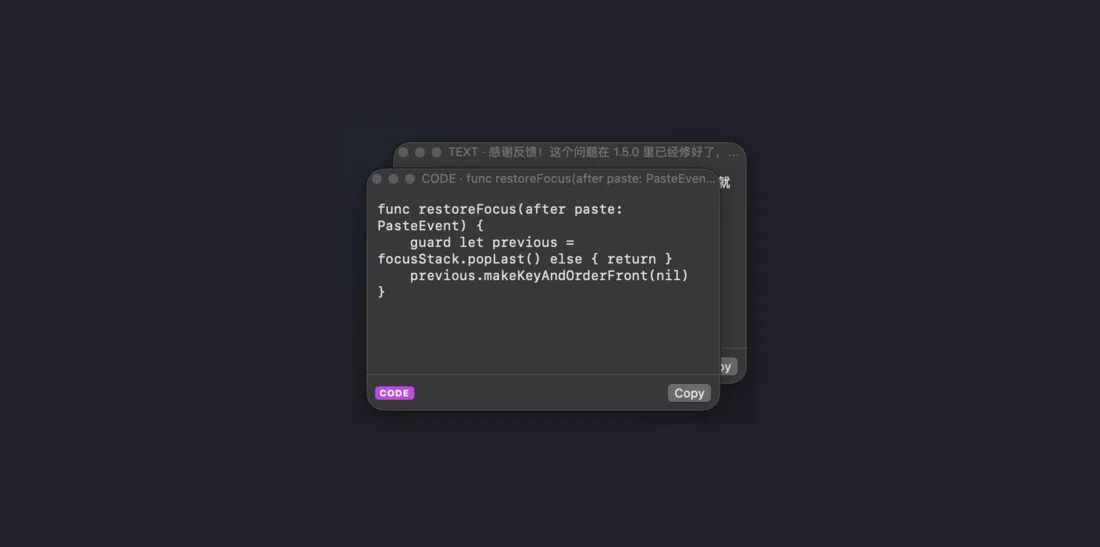
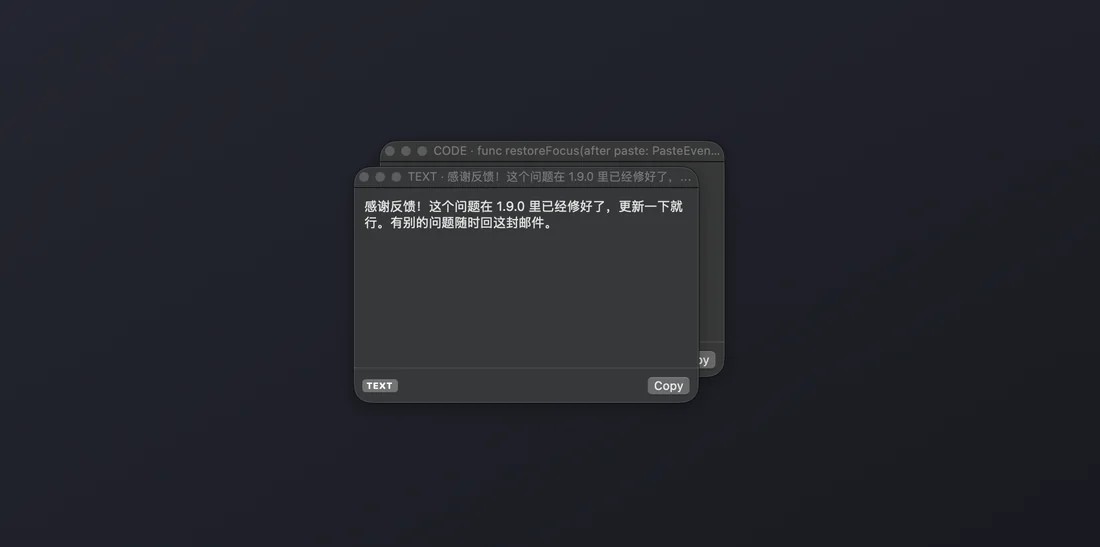
Site: feature screenshots re-shot on 1.9.0; canvas synced with the live page
Six feature shots retaken with the shipped 1.9.0 app and demo history
(footer now reads 1.9.0, demo text no longer mentions 1.5.0). Canvas web and
phone boards now embed the try-it section, carry the two extra feature cards,
the sibling-app row and the current CTA copy.

Changed region(s): [[0.3091, 0.2486, 0.68, 0.777]]

diff --git a/design/site/canvas/Main.dc.html b/design/site/canvas/Main.dc.html
@@ -25,6 +25,7 @@ a{color:#141414}a:hover{color:#55534d}
 <header style="max-width:1240px;margin:0 auto;padding:22px 40px;display:flex;align-items:center;justify-content:space-between;gap:24px">
 <a href="#top" style="display:flex;align-items:center;gap:10px;text-decoration:none;font:800 20px 'Bricolage Grotesque',sans-serif;letter-spacing:-.02em"><img src="/_blob/39be138c05033c1d39772588a3e15cde" alt="" style="width:30px;height:30px;border-radius:7px">ClipStack</a>
 <nav style="display:flex;align-items:center;gap:28px;font-size:15px;font-weight:500">
+<a href="#try" style="text-decoration:none">Try it</a>
 <a href="#what" style="text-decoration:none">What it is</a>
 <a href="#how" style="text-decoration:none">How to use</a>
 <a href="#features" style="text-decoration:none">Features</a>
@@ -41,7 +42,7 @@ a{color:#141414}a:hover{color:#55534d}
 <p class="muted" style="margin:28px 0 0;font-size:20px;max-width:30em">Your Mac's clipboard only remembers the last thing you copied. ClipStack remembers the rest — text, links, images and files. Press <span class="key" style="height:26px;min-width:auto;font-size:12px">⇧⌘V</span> in any app, pick one, press <span class="key" style="height:26px;min-width:26px;font-size:12px">↩</span>, paste.</p>
 <div style="display:flex;gap:14px;align-items:center;margin-top:36px">
 <a href="#dl" style="display:inline-flex;align-items:center;gap:10px;background:#141414;color:#fff;text-decoration:none;padding:16px 22px;border-radius:12px;font-weight:600;font-size:16px">Download for Mac</a>
-<a href="#how" style="font-weight:600;font-size:16px;text-decoration:none;border-bottom:2px solid #ffe45c;padding-bottom:2px">See how it works →</a>
+<a href="#try" style="font-weight:600;font-size:16px;text-decoration:none;border-bottom:2px solid #ffe45c;padding-bottom:2px">Try it right here →</a>
 </div>
 <p class="muted" style="margin:22px 0 0;font-size:14px">Free · Open source (MIT) · macOS 13+ · Apple silicon</p>
 </div>
@@ -52,6 +53,8 @@ a{color:#141414}a:hover{color:#55534d}
 <div style="position:absolute;left:58px;bottom:-22px;display:flex;align-items:center;gap:8px;background:#141414;color:#fff;padding:9px 13px;border-radius:12px;font-size:13px"><span class="key" style="height:24px;min-width:24px;font-size:11px">⇧</span><span class="key" style="height:24px;min-width:24px;font-size:11px">⌘</span><span class="key" style="height:24px;min-width:24px;font-size:11px">V</span><span style="margin-left:4px">Open ClipStack</span></div>
 </div>
 </section>
+
+<section id="try" style="border-top:1px solid #e4e2da;background:#fff;display:flex;justify-content:center"><dc-import name="Try" hint-size="1440px,980px"></dc-import></section>
 
 <section id="what" style="border-top:1px solid #e4e2da">
 <div style="max-width:1240px;margin:0 auto;padding:110px 40px">
@@ -139,15 +142,15 @@ a{color:#141414}a:hover{color:#55534d}
 <p class="lab" style="margin:0"><span class="key">⌘5</span>Beyond the basics</p>
 <h2 style="margin:28px 0 0;font:800 64px/1.02 'Bricolage Grotesque',sans-serif;letter-spacing:-.04em">Small moves that <span class="mk">add up.</span></h2>
 <div style="display:grid;grid-template-columns:repeat(2,minmax(0,1fr));gap:24px;margin-top:56px">
-<div class="card" style="padding:28px"><div style="display:flex;justify-content:space-between;align-items:center"><h3 style="margin:0;font:700 26px 'Bricolage Grotesque',sans-serif">Change it before you paste</h3><span class="key">⌘K</span></div><p class="muted" style="margin:10px 0 20px;font-size:15.5px">Case, trim, join lines, JSON, URL-encode, colour formats, text from a screenshot (on-device OCR).</p><img src="/_blob/85e757d2b52fc35c45a7b0fb8cccdf9d" alt="The ⌘K transform menu over a JSON entry" style="display:block;width:100%;border-radius:10px;border:1px solid #e4e2da"></div>
-<div class="card" style="padding:28px"><div style="display:flex;justify-content:space-between;align-items:center"><h3 style="margin:0;font:700 26px 'Bricolage Grotesque',sans-serif">Every entry is tagged</h3><span class="key">⇥</span></div><p class="muted" style="margin:10px 0 20px;font-size:15.5px">URL, EMAIL, CODE, COLOR, TEXT, IMAGE, FILE. Tab shows one type at a time.</p><img src="/_blob/ebe78088abbb573bbdbe76eeceef8517" alt="The panel filtered to one type" style="display:block;width:100%;border-radius:10px;border:1px solid #e4e2da"></div>
-<div class="card" style="padding:28px"><div style="display:flex;justify-content:space-between;align-items:center"><h3 style="margin:0;font:700 26px 'Bricolage Grotesque',sans-serif">Merge several into one</h3><span class="key">⌘M</span></div><p class="muted" style="margin:10px 0 20px;font-size:15.5px">Mark entries, press ↩ — copied as one, in the order you marked them.</p><img src="/_blob/aa548e4ae81fc78016f579993be4dabc" alt="Three entries marked for a merged copy" style="display:block;width:100%;border-radius:10px;border:1px solid #e4e2da"></div>
-<div class="card" style="padding:28px"><div style="display:flex;justify-content:space-between;align-items:center"><h3 style="margin:0;font:700 26px 'Bricolage Grotesque',sans-serif">Float it next to your work</h3><span class="key">⌘O</span></div><p class="muted" style="margin:10px 0 20px;font-size:15.5px">Any entry becomes a small always-on-top note. ⌘T keeps the whole panel on top.</p><img src="/_blob/c690db1652537287211e1cbdb91bb623" alt="Two floating ClipStack notes" style="display:block;width:100%;border-radius:10px;border:1px solid #e4e2da"></div>
+<div class="card" style="padding:28px"><div style="display:flex;justify-content:space-between;align-items:center"><h3 style="margin:0;font:700 26px 'Bricolage Grotesque',sans-serif">Change it before you paste</h3><span class="key">⌘K</span></div><p class="muted" style="margin:10px 0 20px;font-size:15.5px">Case, trim, join lines, JSON, URL-encode, colour formats, text from a screenshot (on-device OCR).</p><img src="/_blob/8ae91fd1dba95441b7c0d4997162d30f" alt="The ⌘K transform menu over a JSON entry" style="display:block;width:100%;border-radius:10px;border:1px solid #e4e2da"></div>
+<div class="card" style="padding:28px"><div style="display:flex;justify-content:space-between;align-items:center"><h3 style="margin:0;font:700 26px 'Bricolage Grotesque',sans-serif">Every entry is tagged</h3><span class="key">⇥</span></div><p class="muted" style="margin:10px 0 20px;font-size:15.5px">URL, EMAIL, CODE, COLOR, TEXT, IMAGE, FILE. Tab shows one type at a time.</p><img src="/_blob/2420fcde3938c69323be545190b32625" alt="The panel filtered to one type" style="display:block;width:100%;border-radius:10px;border:1px solid #e4e2da"></div>
+<div class="card" style="padding:28px"><div style="display:flex;justify-content:space-between;align-items:center"><h3 style="margin:0;font:700 26px 'Bricolage Grotesque',sans-serif">Merge several into one</h3><span class="key">⌘M</span></div><p class="muted" style="margin:10px 0 20px;font-size:15.5px">Mark entries, press ↩ — copied as one, in the order you marked them.</p><img src="/_blob/bad575de3f3f1949a2fc9e46790ad1a1" alt="Three entries marked for a merged copy" style="display:block;width:100%;border-radius:10px;border:1px solid #e4e2da"></div>
+<div class="card" style="padding:28px"><div style="display:flex;justify-content:space-between;align-items:center"><h3 style="margin:0;font:700 26px 'Bricolage Grotesque',sans-serif">Float it next to your work</h3><span class="key">⌘O</span></div><p class="muted" style="margin:10px 0 20px;font-size:15.5px">Any entry becomes a small always-on-top note. ⌘T keeps the whole panel on top.</p><img src="/_blob/52aeab64608d8e7416086d7ed070b366" alt="Two floating ClipStack notes" style="display:block;width:100%;border-radius:10px;border:1px solid #e4e2da"></div>
 </div>
+<div style="display:grid;grid-template-columns:repeat(2,minmax(0,1fr));gap:24px;margin-top:24px"><div class="card" style="padding:28px"><div style="display:flex;justify-content:space-between;align-items:center"><h3 style="margin:0;font:700 26px 'Bricolage Grotesque',sans-serif">Type to find it</h3><span class="key">abc</span></div><p class="muted" style="margin:10px 0 20px;font-size:15.5px">The search field is ready the moment the panel opens. Pinyin input works too.</p><img src="/_blob/5c04a6f45c4c401773bd27299fa4c57b" alt="A search narrowing the history list" style="display:block;width:100%;border-radius:10px;border:1px solid #e4e2da"></div><div class="card" style="padding:28px"><div style="display:flex;justify-content:space-between;align-items:center"><h3 style="margin:0;font:700 26px 'Bricolage Grotesque',sans-serif">Images and files, too</h3><span class="key">⌃⇧⌘4</span></div><p class="muted" style="margin:10px 0 20px;font-size:15.5px">Screenshots get a full preview; files from Finder come back as files.</p><img src="/_blob/c98d5521ab8a1e79e6c6989121a58cb3" alt="An image entry with a full preview" style="display:block;width:100%;border-radius:10px;border:1px solid #e4e2da"></div></div>
 <div style="display:flex;flex-wrap:wrap;gap:10px;margin-top:24px;font-size:15px">
 <span class="card" style="padding:10px 14px;display:inline-flex;gap:8px;align-items:center"><span class="key" style="height:26px;font-size:12px">⌘P</span>Pin what you reuse</span>
 <span class="card" style="padding:10px 14px;display:inline-flex;gap:8px;align-items:center"><span class="key" style="height:26px;font-size:12px">⌘1–9</span>Quick copy</span>
-<span class="card" style="padding:10px 14px;display:inline-flex;gap:8px;align-items:center"><span class="key" style="height:26px;font-size:12px">IMG</span>Images &amp; files keep their type</span>
 <span class="card" style="padding:10px 14px;display:inline-flex;gap:8px;align-items:center"><span class="key" style="height:26px;font-size:12px">⌘⌫</span>Delete an entry</span>
 </div>
 </div>
@@ -182,6 +185,8 @@ a{color:#141414}a:hover{color:#55534d}
 </div>
 </section>
 
+<section id="more" style="border-top:1px solid #e4e2da;background:#fff"><div style="max-width:1240px;margin:0 auto;padding:80px 40px"><p class="lab" style="margin:0">More free Mac apps from the same maker</p><div style="display:grid;grid-template-columns:repeat(5,minmax(0,1fr));gap:12px;margin-top:24px"><a href="#more" class="card" style="display:flex;gap:12px;padding:16px;text-decoration:none"><img src="/_blob/2d61d98d1b2c58b08a23e2147031273c" alt="" style="width:40px;height:40px;border-radius:9px"><span><b style="display:block;font:700 16px 'Bricolage Grotesque',sans-serif">AudioSwitch</b><span class="muted" style="font-size:14px;line-height:1.5">Every audio input and output in one panel.</span></span></a><a href="#more" class="card" style="display:flex;gap:12px;padding:16px;text-decoration:none"><img src="/_blob/3842acdf544c74015d929d38056b86d3" alt="" style="width:40px;height:40px;border-radius:9px"><span><b style="display:block;font:700 16px 'Bricolage Grotesque',sans-serif">Candela</b><span class="muted" style="font-size:14px;line-height:1.5">Display controls macOS hides.</span></span></a><a href="#more" class="card" style="display:flex;gap:12px;padding:16px;text-decoration:none"><img src="/_blob/50906767a445f80b49c77b5a699ec9d0" alt="" style="width:40px;height:40px;border-radius:9px"><span><b style="display:block;font:700 16px 'Bricolage Grotesque',sans-serif">Inkstone</b><span class="muted" style="font-size:14px;line-height:1.5">Markdown notes as plain files.</span></span></a><a href="#more" class="card" style="display:flex;gap:12px;padding:16px;text-decoration:none"><img src="/_blob/8db0fe41935f61765bb6fa77a3dc8a75" alt="" style="width:40px;height:40px;border-radius:9px"><span><b style="display:block;font:700 16px 'Bricolage Grotesque',sans-serif">Veil</b><span class="muted" style="font-size:14px;line-height:1.5">Blurs everything but your window.</span></span></a><a href="#more" class="card" style="display:flex;gap:12px;padding:16px;text-decoration:none"><img src="/_blob/9ba0bf832d7be92223e66365e3b5ccd8" alt="" style="width:40px;height:40px;border-radius:9px"><span><b style="display:block;font:700 16px 'Bricolage Grotesque',sans-serif">Tapper</b><span class="muted" style="font-size:14px;line-height:1.5">A cartoon-glove pointer for demos.</span></span></a></div></div></section>
+
 <section id="dl" style="background:#141414;color:#f2f0ea">
 <div style="max-width:1240px;margin:0 auto;padding:120px 40px 50px">
 <h2 style="margin:0;font:800 96px/.98 'Bricolage Grotesque',sans-serif;letter-spacing:-.045em;max-width:12ch">Copy once. <span class="mk" style="color:#141414">Paste whenever.</span></h2>
@@ -195,7 +200,7 @@ a{color:#141414}a:hover{color:#55534d}
 </section>
 </div>
 </x-dc>
-<script type="text/x-dc" data-dc-script data-props='{"$preview":{"width":1440,"height":6400}}'>
+<script type="text/x-dc" data-dc-script data-props='{"$preview":{"width":1440,"height":8300}}'>
 class Component extends DCLogic {
 renderVals() { return {}; }
 }

diff --git a/design/site/canvas/Mobile.dc.html b/design/site/canvas/Mobile.dc.html
@@ -31,7 +31,7 @@ a{color:#141414}a:hover{color:#55534d}
 <h1 style="margin:20px 0 0;font:800 50px/1.08 'Bricolage Grotesque','PingFang SC',sans-serif;letter-spacing:-.03em">复制过的东西，<span class="mk">都还在。</span></h1>
 <p class="muted" style="margin:20px 0 0;font-size:17px">Mac 的剪贴板只记得最后复制的那一样。ClipStack 把其余的都留着：文字、链接、图片、文件。按 ⇧⌘V，选一条，回车，粘贴。</p>
 <a href="#dl" style="display:flex;justify-content:center;margin-top:26px;background:#141414;color:#fff;text-decoration:none;padding:16px;border-radius:12px;font-weight:600">下载 Mac 版</a>
-<a href="#how" style="display:flex;justify-content:center;margin-top:10px;padding:14px;border-radius:12px;font-weight:600;text-decoration:none;border:1px solid #d9d6cc">看看怎么用</a>
+<a href="#try" style="display:flex;justify-content:center;margin-top:10px;padding:14px;border-radius:12px;font-weight:600;text-decoration:none;border:1px solid #d9d6cc">现在就试试 →</a>
 <p class="muted" style="margin:14px 0 0;font-size:13px;text-align:center">免费 · 开源（MIT）· macOS 13+ · Apple 芯片</p>
 <div style="position:relative;margin-top:36px;padding-top:22px">
 <div class="card" style="position:absolute;top:0;left:22px;right:-6px;height:80px;padding:12px 14px;transform:rotate(2deg);display:flex;gap:8px;font:500 12px 'JetBrains Mono',monospace"><span class="tag" style="background:#2f9e74">EMAIL</span>support@example.com</div>
@@ -40,6 +40,8 @@ a{color:#141414}a:hover{color:#55534d}
 <div style="position:absolute;left:12px;bottom:-16px;display:flex;gap:6px;align-items:center;background:#141414;color:#fff;padding:7px 10px;border-radius:10px;font-size:12px"><span class="key" style="height:22px;min-width:22px;font-size:10px">⇧</span><span class="key" style="height:22px;min-width:22px;font-size:10px">⌘</span><span class="key" style="height:22px;min-width:22px;font-size:10px">V</span>打开 ClipStack</div>
 </div>
 </section>
+
+<section id="try" style="border-top:1px solid #e4e2da"><dc-import name="TryMobile" hint-size="390px,1560px"></dc-import></section>
 
 <section style="padding:60px 18px;border-top:1px solid #e4e2da">
 <p class="lab" style="margin:0"><span class="key">⌘1</span>这是什么</p>
@@ -84,8 +86,8 @@ a{color:#141414}a:hover{color:#55534d}
 
 <section style="padding:60px 18px;border-top:1px solid #e4e2da">
 <p class="lab" style="margin:0"><span class="key">⌘5</span>更多功能</p>
-<div class="card" style="margin-top:20px;padding:18px"><div style="display:flex;justify-content:space-between;align-items:center"><h3 style="margin:0;font:700 20px 'Bricolage Grotesque','PingFang SC',sans-serif">粘贴前先改一改</h3><span class="key">⌘K</span></div><img src="/_blob/85e757d2b52fc35c45a7b0fb8cccdf9d" alt="⌘K 转换菜单" style="display:block;width:100%;margin-top:14px;border-radius:9px"></div>
-<div class="card" style="margin-top:14px;padding:18px"><div style="display:flex;justify-content:space-between;align-items:center"><h3 style="margin:0;font:700 20px 'Bricolage Grotesque','PingFang SC',sans-serif">多条合并粘贴</h3><span class="key">⌘M</span></div><img src="/_blob/aa548e4ae81fc78016f579993be4dabc" alt="标记三条合并复制" style="display:block;width:100%;margin-top:14px;border-radius:9px"></div>
+<div class="card" style="margin-top:20px;padding:18px"><div style="display:flex;justify-content:space-between;align-items:center"><h3 style="margin:0;font:700 20px 'Bricolage Grotesque','PingFang SC',sans-serif">粘贴前先改一改</h3><span class="key">⌘K</span></div><img src="/_blob/8ae91fd1dba95441b7c0d4997162d30f" alt="⌘K 转换菜单" style="display:block;width:100%;margin-top:14px;border-radius:9px"></div>
+<div class="card" style="margin-top:14px;padding:18px"><div style="display:flex;justify-content:space-between;align-items:center"><h3 style="margin:0;font:700 20px 'Bricolage Grotesque','PingFang SC',sans-serif">多条合并粘贴</h3><span class="key">⌘M</span></div><img src="/_blob/bad575de3f3f1949a2fc9e46790ad1a1" alt="标记三条合并复制" style="display:block;width:100%;margin-top:14px;border-radius:9px"></div>
 </section>
 
 <section id="dl" style="padding:70px 18px 30px;background:#141414;color:#f2f0ea">
@@ -96,7 +98,7 @@ a{color:#141414}a:hover{color:#55534d}
 </section>
 </div>
 </x-dc>
-<script type="text/x-dc" data-dc-script data-props='{"$preview":{"width":390,"height":7400}}'>
+<script type="text/x-dc" data-dc-script data-props='{"$preview":{"width":390,"height":9000}}'>
 class Component extends DCLogic {
 renderVals() { return {}; }
 }
